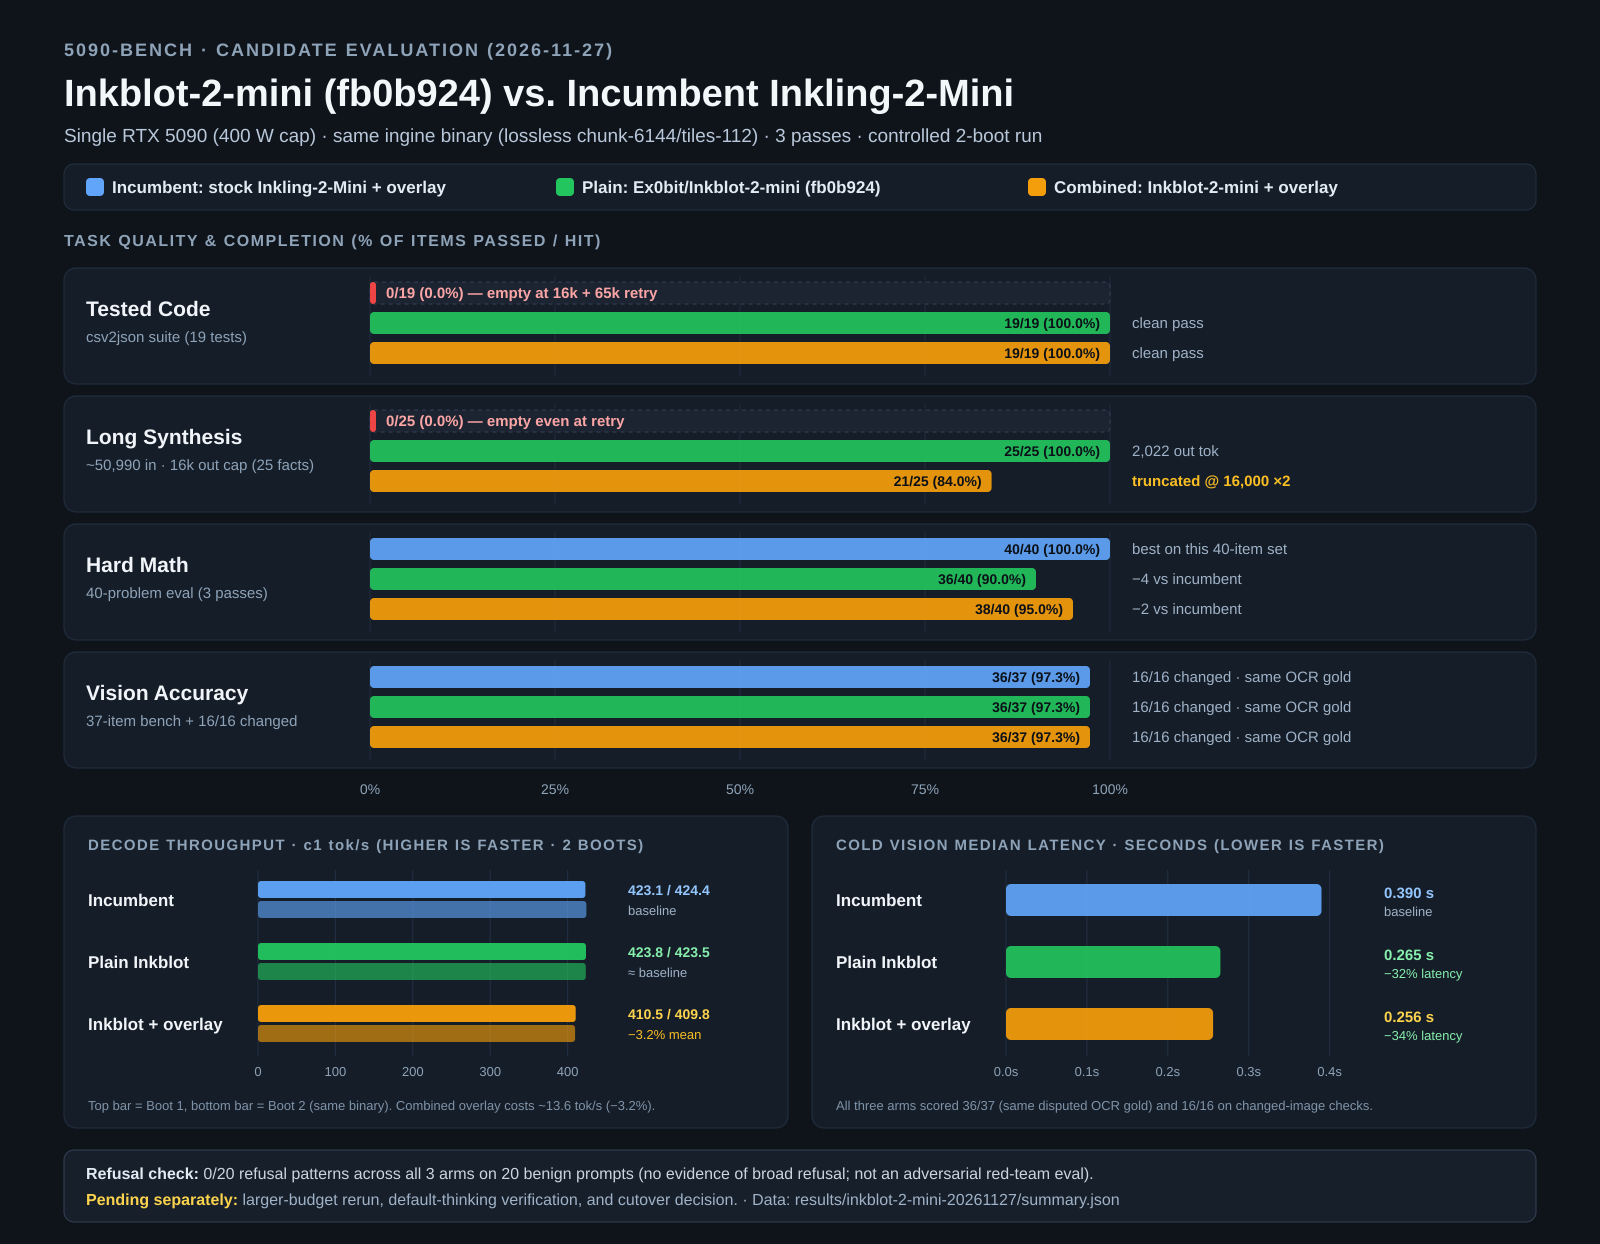
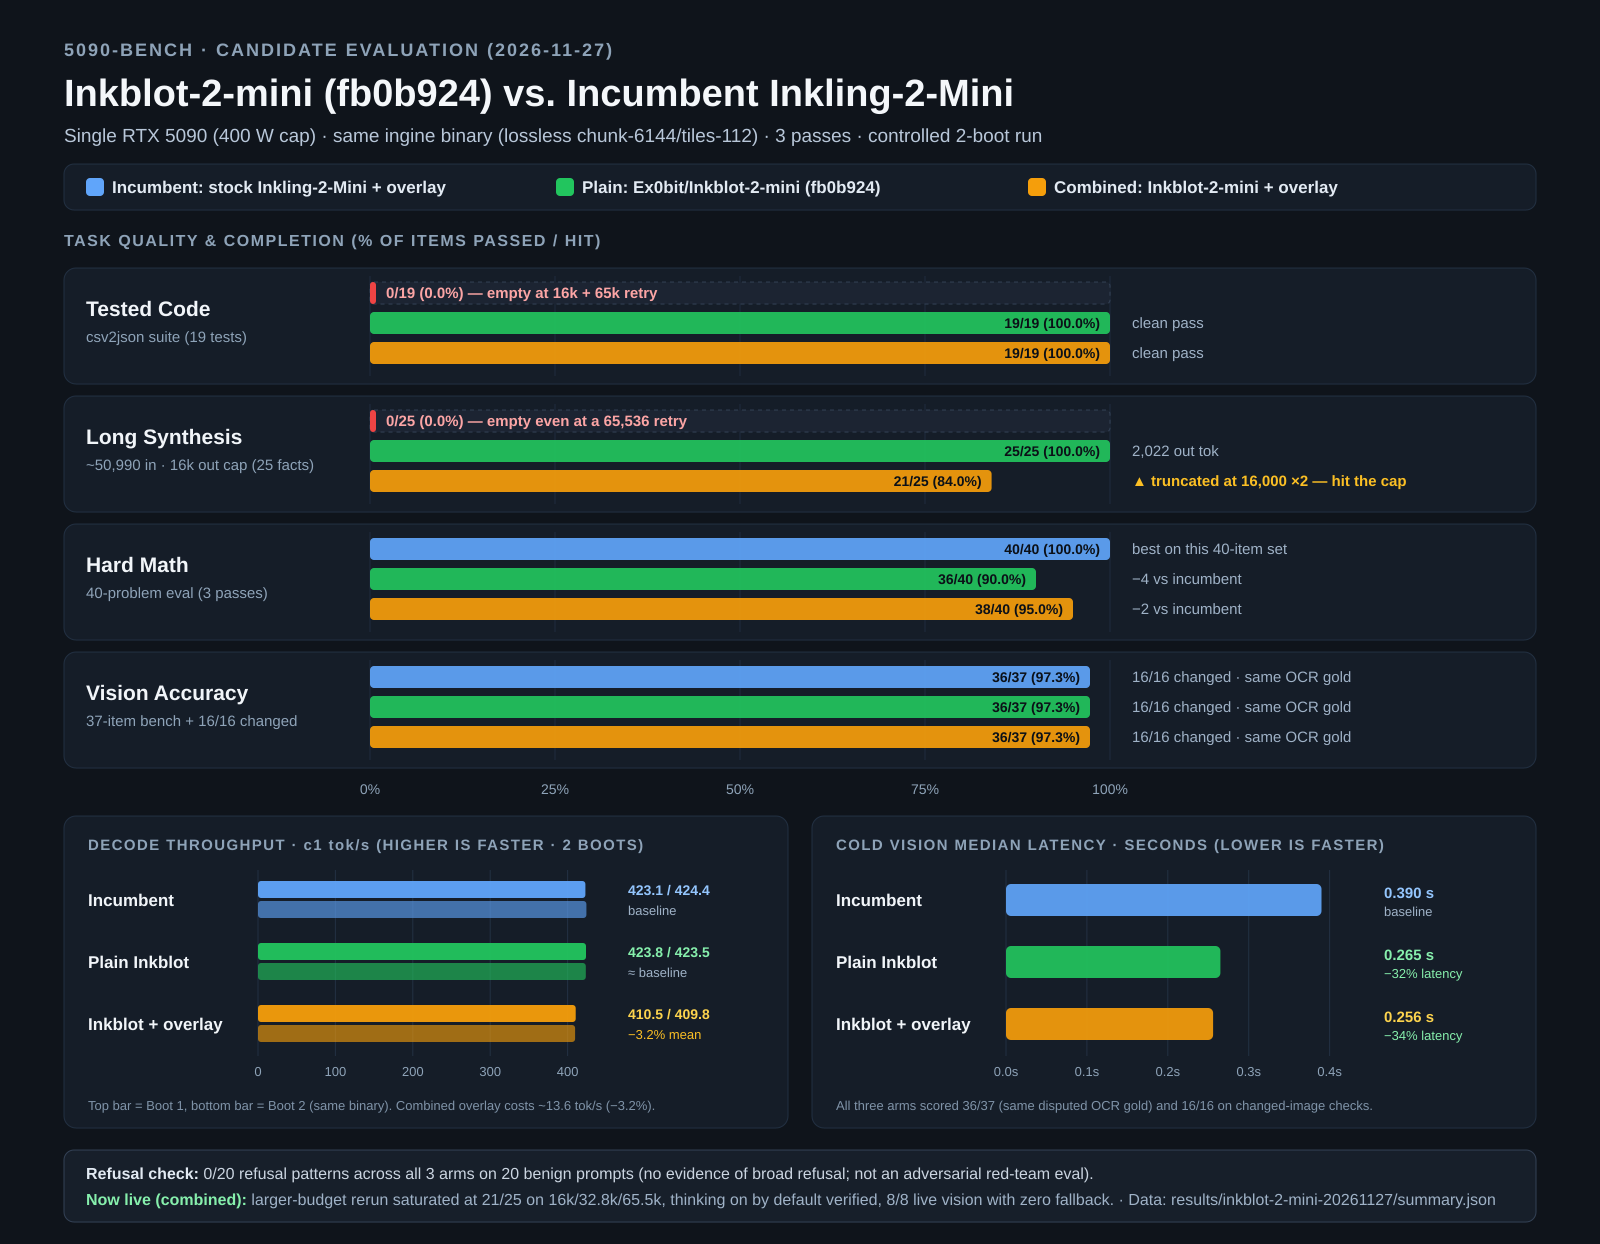
5090-bench: Inkblot+overlay live; measured token limits and saturated-budget result
Agent: Depths

- mark the combined arm live after cutover, with the rollback and post-cutover live checks
- record the larger-budget rerun: recall saturates at 21/25 on 16k/32.8k/65.5k, so 16k stays the benchmark budget
- publish measured engine limits (shared 262,144 window; max input 262,135; clamp-never-reject) so max_tokens reads as a ceiling, not a cap
- chart: truncation now reads as a cap hit, footer reflects the live state

Changed region(s): [[0.0625, 0.9469, 0.9375, 0.9775], [0.7188, 0.3666, 0.875, 0.3971], [0.375, 0.336, 0.4375, 0.3666]]

diff --git a/scripts/update_summary.py b/scripts/update_summary.py
@@ -1,0 +1,49 @@
+import json
+
+p = 'results/inkblot-2-mini-20261127/summary.json'
+d = json.load(open(p))
+d['status'] = 'promoted-2026-11-27 combined arm live'
+d['cutover'] = {
+    'date': '2026-11-27',
+    'arm': 'combined',
+    'method': 'weights directory plus ablation overlay swapped in the serving config; same binary, same flags, same model id (no client change)',
+    'rollback': 'verified snapshot of the pre-cutover serving config; restore file then restart',
+    'verified_after_cutover': {
+        'thinking_on_by_default': True,
+        'thinking_evidence': 'reasoning present with no reasoning_effort field sent; 53 completion tok, 121 reasoning chars, correct answer',
+        'reasoning_replay_multiturn': True,
+        'vision_live': {'cases': 8, 'correct': 8, 'backend': 'ripper-5090', 'fallback_calls': 0},
+        'worker_smoke': 'synthetic CSV to JSON task completed; artifact re-run by the operator',
+        'benign_controls': '5/5 substantive, 0 refusal patterns',
+        'power_cap_w': 400,
+        'lossless_path_active': True,
+    },
+    'limits': {
+        'note': 'one shared context pool: input plus thinking plus answer',
+        'engine_context': 262144,
+        'generation_reserve_tokens': 8,
+        'max_input_tokens_at_min_output': 262135,
+        'max_output_tokens_at_51k_input': 211146,
+        'engine_clamps_oversized_max_tokens': 'yes, never rejects',
+        'cli_default_max_tokens': 65536,
+        'max_tokens_is_a_ceiling_not_a_cap': 'the CLI sends a ceiling and the engine clamps to remaining room; no artificial per-request cap was added',
+    },
+    'larger_budget_result': {
+        'fixture': 'same ~50,990-token synthesis prompt',
+        'budgets_tested': [16000, 32768, 65536],
+        'fact_proxy_hits_each': [21, 21, 21],
+        'finish_each': ['length', 'length', 'length'],
+        'wall_s_each': [31.0, 49.8, 100.9],
+        'outputs_are_strict_prefixes': True,
+        'useful_content_ends_at_chars': 1955,
+        'conclusion': 'recall saturates at 21/25; extra budget is consumed by a ticket-number repetition loop, so the per-request synthesis budget stays 16000',
+    },
+}
+d['pending_followups'] = [
+    '400,000-token context qualification on the 5090 and on the pinned Radeon (256K is the current 5090 window, 131K on the Radeon)',
+    'Adversarial refusal comparison (benign controls only so far)',
+    '4-pass loop depth (3 passes evaluated only)',
+]
+json.dump(d, open(p, 'w'), indent=2)
+open(p, 'a').write('\n')
+print(d['status'], len(d['arms']), list(d['cutover']['limits'])[:3])

diff --git a/scripts/charts/make_inkblot_chart.py b/scripts/charts/make_inkblot_chart.py
@@ -81,9 +81,9 @@ def main() -> None:
             "Long Synthesis",
             "~50,990 in · 16k out cap (25 facts)",
             [
-                ("incumbent", inc["synthesis"]["fact_proxy_hits"], inc["synthesis"]["fact_proxy_total"], "empty even at retry", True),
+                ("incumbent", inc["synthesis"]["fact_proxy_hits"], inc["synthesis"]["fact_proxy_total"], "empty even at a 65,536 retry", True),
                 ("plain", pln["synthesis"]["fact_proxy_hits"], pln["synthesis"]["fact_proxy_total"], f"{pln['synthesis']['output_tokens']:,} out tok", False),
-                ("combined", cmb["synthesis"]["fact_proxy_hits"], cmb["synthesis"]["fact_proxy_total"], "truncated @ 16,000 ×2", True),
+                ("combined", cmb["synthesis"]["fact_proxy_hits"], cmb["synthesis"]["fact_proxy_total"], "▲ truncated at 16,000 ×2 — hit the cap", True),
             ],
         ),
         (
@@ -298,7 +298,7 @@ def main() -> None:
         f'<text x="86" y="{foot_y + 29}" fill="#cbd5e1" font-family="{FONT}" font-size="16"><tspan font-weight="700" fill="#e2eaf3">Refusal check:</tspan> 0/20 refusal patterns across all 3 arms on 20 benign prompts (no evidence of broad refusal; not an adversarial red-team eval).</text>'
     )
     p.append(
-        f'<text x="86" y="{foot_y + 55}" fill="#9fb2c7" font-family="{FONT}" font-size="16"><tspan font-weight="700" fill="#fcd34d">Pending separately:</tspan> larger-budget rerun, default-thinking verification, and cutover decision.  ·  Data: results/inkblot-2-mini-20261127/summary.json</text>'
+        f'<text x="86" y="{foot_y + 55}" fill="#9fb2c7" font-family="{FONT}" font-size="16"><tspan font-weight="700" fill="#86efac">Now live (combined):</tspan> larger-budget rerun saturated at 21/25 on 16k/32.8k/65.5k, thinking on by default verified, 8/8 live vision with zero fallback.  ·  Data: results/inkblot-2-mini-20261127/summary.json</text>'
     )
 
     p.append("</svg>")

diff --git a/README.md b/README.md
@@ -39,12 +39,12 @@ One 32 GB Blackwell card. Every model we benchmark on it gets a lane, a dated co
 | | Lane | Status | Best verified numbers (400 W cap) | Role fit |
 | :-: | --- | --- | --- | --- |
 | ⚡ | **[Inkling-2-Mini (abliterated) · `ingine` + chunk-6144](models/inkling-2-mini/README.md)** | 🟢 **live** since 2026-11-24 | **431.3 tok/s c1 decode** · **11,154 / 10,911 / 9,049 tok/s** cold prefill (4K/32K/131K) · **28.9 ms TTFT** · **0.33 s vision (97.3%)** · 262K ctx · 26.5 GiB VRAM | **Private vision, Reviewer (100% @ 4.8 s), Cheap-batch (100% @ 2.4 s)**. *Not* a replacement for large MoE on long-form synthesis/builder (loops at temp 0 on 3/14 fixtures). |
-| 🧪 | **[Ex0bit/Inkblot-2-mini (`fb0b924`) · `ingine` + chunk-6144](models/inkblot-2-mini/README.md)** | 🧪 **candidate** (2026-11-27 · cutover pending) | Plain: **423.8 / 423.5 tok/s** (2 boots) · **19/19 `csv2json`** · **25/25 synthesis** (2,022 tok) · **36/40 hard math** · **36/37 vision @ 0.265 s** (3 passes, 400 W) | **Fixes `csv2json` & ~51K synthesis empty-output failures** vs incumbent while keeping decode parity; trails incumbent on 40-item hard math (36/40 vs 40/40). Larger-budget rerun, default-thinking check & cutover pending. |
+| ✅ | **[Ex0bit/Inkblot-2-mini (`fb0b924`) + overlay · `ingine` + chunk-6144](models/inkblot-2-mini/README.md)** | 🟢 **live** since 2026-11-27 (Combined arm) | **19/19 `csv2json`** (incumbent: empty) · **38/40 hard math** · **36/37 vision @ 0.256 s** · **409.8–410.5 tok/s** (2 boots) · thinking on by default | **Fixes the incumbent's empty-output loops on tested code while keeping the abliteration overlay.** Costs ~3.2% decode and still truncates on ~51K synthesis at a 16k budget. |
 | 🔬 | [Inkling-2-Mini · `ingine` + native FP4 MoE prefill](models/inkling-2-mini/README.md#what-we-tested-and-rejected-and-why) | 🔴 **rejected** (quality) | **14,593 / 13,918 / 10,974 tok/s** prefill (+47% / +31% / +27%) · **23.9 ms TTFT** · 4/4 needles @ 131K | **Failed role-bench quality gate** (Builder 33.3%, Reviewer 66.7%). Patches kept in repo as a cautionary receipt, disabled in production. |
 
 ---
 
-## 🧪 Candidate Evaluation (2026-11-27): `Ex0bit/Inkblot-2-mini` (`fb0b924`)
+## ✅ Now live (2026-11-27): `Ex0bit/Inkblot-2-mini` (`fb0b924`) + overlay
 
 We ran a controlled **same-binary, two-boot** comparison on the same 400 W RTX 5090 (`ingine` [`556acc7`](https://github.com/satellitedown/inkling-2-mini-abliterated-ingine/tree/556acc7) + lossless `chunk-6144 / tiles-112`, **3 passes**) across three arms: **Incumbent** (stock Inkling-2-Mini + ablation overlay), **Plain** ([`Ex0bit/Inkblot-2-mini` @ `fb0b924`](https://huggingface.co/Ex0bit/Inkblot-2-mini/tree/fb0b924f46a74331e34ce4f4288177f9dc0383c8)), and **Combined** (Inkblot + ablation overlay).
 
@@ -63,7 +63,9 @@ We ran a controlled **same-binary, two-boot** comparison on the same 400 W RTX 5
 
 - **Key read:** Plain `Inkblot-2-mini` eliminates the incumbent's empty-output failures on `csv2json` and ~51K synthesis (2,022 output tokens, 25/25 fact proxy) with decode parity and faster cold vision median (0.265 s vs 0.390 s), while trailing the incumbent on the 40-problem hard math set (36/40 vs 40/40). Adding the ablation overlay (`Combined`) recovers +2 math items (38/40) but truncates synthesis at 16k twice (21/25) and costs ~3.2% decode throughput.
 - **Fair scope:** All three arms missed the same disputed OCR gold item on vision; the 20-prompt refusal check used benign prompts only (no evidence of broad refusal, not an adversarial eval); tested at 3 passes only.
-- **Pending separately:** Larger-budget rerun, default-thinking verification, and cutover decision — incumbent remains live until follow-up measurements land.
+- **Follow-ups after this table:** the larger-budget rerun (same prompt at 16k / 32.8k / 65.5k output) **saturated at 21/25 facts on every budget** with outputs as strict prefixes — the extra budget is eaten by a ticket-number loop, so the benchmark budget stays 16,000. Default thinking and multi-turn `reasoning_content` replay were verified on the live endpoint, vision was re-proven live at **8/8 with zero fallback**, and the Combined arm was **cut over** with a verified rollback snapshot. Same binary, same flags, same 400 W cap, same served model id. `max_tokens` is a ceiling, not a cap: the engine clamps to the room left in the shared window.
+- **Live limits measured:** context 262,144 shared (input + thinking + answer); max input 262,135 at minimum output; max output at the 51k prompt 211,146; oversized requests clamped, never rejected.
+- **Still open:** 400,000-token context qualification on this card and on our AMD card, an adversarial refusal comparison, and 4-pass loop depth.
 
 Full report: **[`models/inkblot-2-mini/README.md`](models/inkblot-2-mini/README.md)** · Aggregates: **[`results/inkblot-2-mini-20261127/summary.json`](results/inkblot-2-mini-20261127/summary.json)**
 

diff --git a/models/inkblot-2-mini/README.md b/models/inkblot-2-mini/README.md
@@ -1,6 +1,6 @@
 # Inkblot-2-mini (`fb0b924`) vs. Incumbent Inkling-2-Mini on RTX 5090
 
-**Status:** 🧪 **candidate evaluation** (2026-11-27 — larger-budget rerun, default-thinking verification, and production cutover pending separately; incumbent remains live)  
+**Status:** ✅ **live since 2026-11-27** — promoted as the *Combined* arm (Inkblot + ablation overlay). Default thinking verified, live vision proven, real limits measured, rollback snapshot kept.  
 **Candidate checkpoint:** [`Ex0bit/Inkblot-2-mini` @ `fb0b924`](https://huggingface.co/Ex0bit/Inkblot-2-mini/tree/fb0b924f46a74331e34ce4f4288177f9dc0383c8) (method & paper: [`eelbaz/Recursive-Self-Improving-Loopers`](https://github.com/eelbaz/Recursive-Self-Improving-Loopers) by Eric E., Tensorbend.ai Research)  
 **Base model:** [`thinkingmachines/Inkling-2-Mini`](https://huggingface.co/thinkingmachines/Inkling-2-Mini)  
 **Engine & overlay:** [`satellitedown/inkling-2-mini-abliterated-ingine` @ `556acc7`](https://github.com/satellitedown/inkling-2-mini-abliterated-ingine/tree/556acc7) + lossless patch [`0001`](../inkling-2-mini/patches/0001-prefill-accept-prefill_chunk-6144-kAttnMaxTiles-112-.patch) (`prefill_chunk=6144 / kAttnMaxTiles=112`), ablation overlay [`satellitedown/Inkling-2-Mini-abliterated-ingine`](https://huggingface.co/satellitedown/Inkling-2-Mini-abliterated-ingine)  
@@ -73,8 +73,25 @@ This evaluation compares three model configurations in a **controlled same-binar
 
 ## Pending Separately (Do Not Treat as Final Cutover)
 
-Production serving stays on the incumbent ([`models/inkling-2-mini/README.md`](../inkling-2-mini/README.md)) until the remaining checks complete:
+**Done — this is now the live configuration.** The three follow-ups ran:
 
-- **Larger-budget rerun** (testing synthesis beyond the 16k cap and extended budgets)
-- **Default-thinking verification**
-- **Production cutover decision** based on the completed follow-up measurements
+- **Larger-budget rerun** (same ~50,990-token prompt at 16k / 32.8k / 65.5k output) — fact recall **saturated at 21/25 on all three budgets**, outputs strict prefixes of each other, and the useful summary ends after ~1,955 chars; the rest is a ticket-number repetition loop. Extra budget costs latency (31 s → 50 s → 101 s) and buys no recall, so the per-request synthesis budget stays 16,000.
+- **Default thinking verified** — the live endpoint emits reasoning **with no `reasoning_effort` field sent**, and an explicit `effort=none` still reasons (template default is always-on). Multi-turn replay of `reasoning_content` verified over three turns.
+- **Cutover** — weights directory + overlay swapped in the serving config; same binary, same flags, same 400 W cap, same served model id (no client change), rollback snapshot verified restorable.
+
+Post-cutover live checks: 8/8 vision cases correct on `ripper-5090` with **0 fallback calls**, a real worker smoke task that wrote a correct parser, 5/5 benign prompts answered with zero refusal patterns.
+
+### Token limits (measured, not assumed)
+
+Context is **one shared pool**: input + thinking + answer.
+
+| Quantity | Value |
+|---|---|
+| Engine context | 262,144 |
+| Generation reserve (speculative verify) | 8 tokens |
+| Max input at minimum output | **262,135** (262,136 → 500 at the engine) |
+| Max output at the 51k synthesis prompt | 211,146 |
+| Oversized `max_tokens` | clamped to remaining room, never rejected |
+| CLI default `max_tokens` | 65,536 |
+
+`max_tokens` is a **ceiling**, not a cap: the CLI sends the ceiling and the engine clamps to the room actually left. No artificial per-request limit was added for normal chat or worker use. The 16,000 figure below is a *benchmark* budget.
